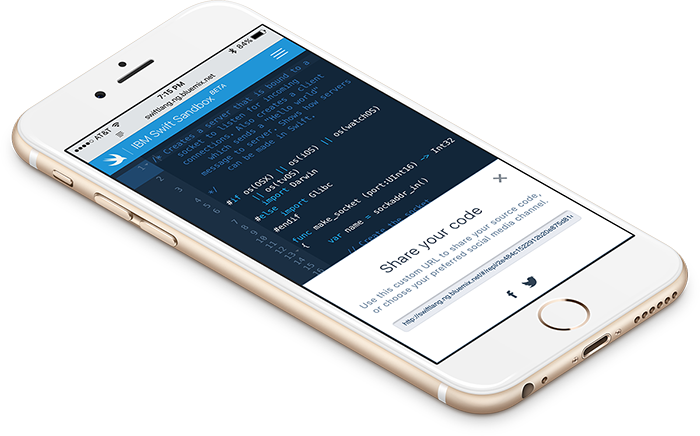
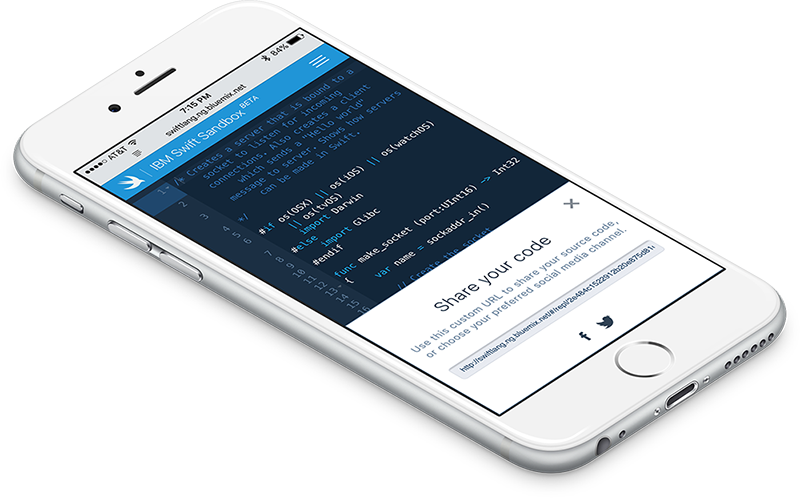
Making some fixes... this CSS is cray

diff --git a/scss/modules/_liquidColumns.scss b/scss/modules/_liquidColumns.scss
@@ -9,13 +9,13 @@
 }
 
 .liquid-column {
-  flex: 1 0 calc(50% - 75px);
+  flex: 1 1 50%;
   display: flex;
   flex-flow: column;
 }
 
 @mixin liquid-bit($factor) {
-  flex: 1 1 calc(50% - 75px);
+  flex: 1 1 50%;
   padding: 0 25px 0 50px;
 
   position: relative;

diff --git a/scss/views/_ibmSwift.scss b/scss/views/_ibmSwift.scss
@@ -19,15 +19,14 @@
   height: 700px;
 
   top: 0;
-  left: 200px;
+  left: 0;
   //left: 100%;
 }
 
 #ibmswift-iphone-1 {
   position: absolute;
-  height: 500px;
+  height: 450px;
 
-  bottom: 0;
-  right: calc(10%);
+  right: 50px;
   top: calc(50% - 250px);
 }

diff --git a/scss/modules/_heroUnit.scss b/scss/modules/_heroUnit.scss
@@ -22,8 +22,8 @@
 }
 
 .hero-unit-bit {
-  flex: 1 1 calc(50% - 75px);
-  padding: 0 25px 0 50px;
+  flex: 1 1 calc(50% - 65px);
+  padding: 0 25px 0 35px;
 
   position: relative;
   height: 100%;
